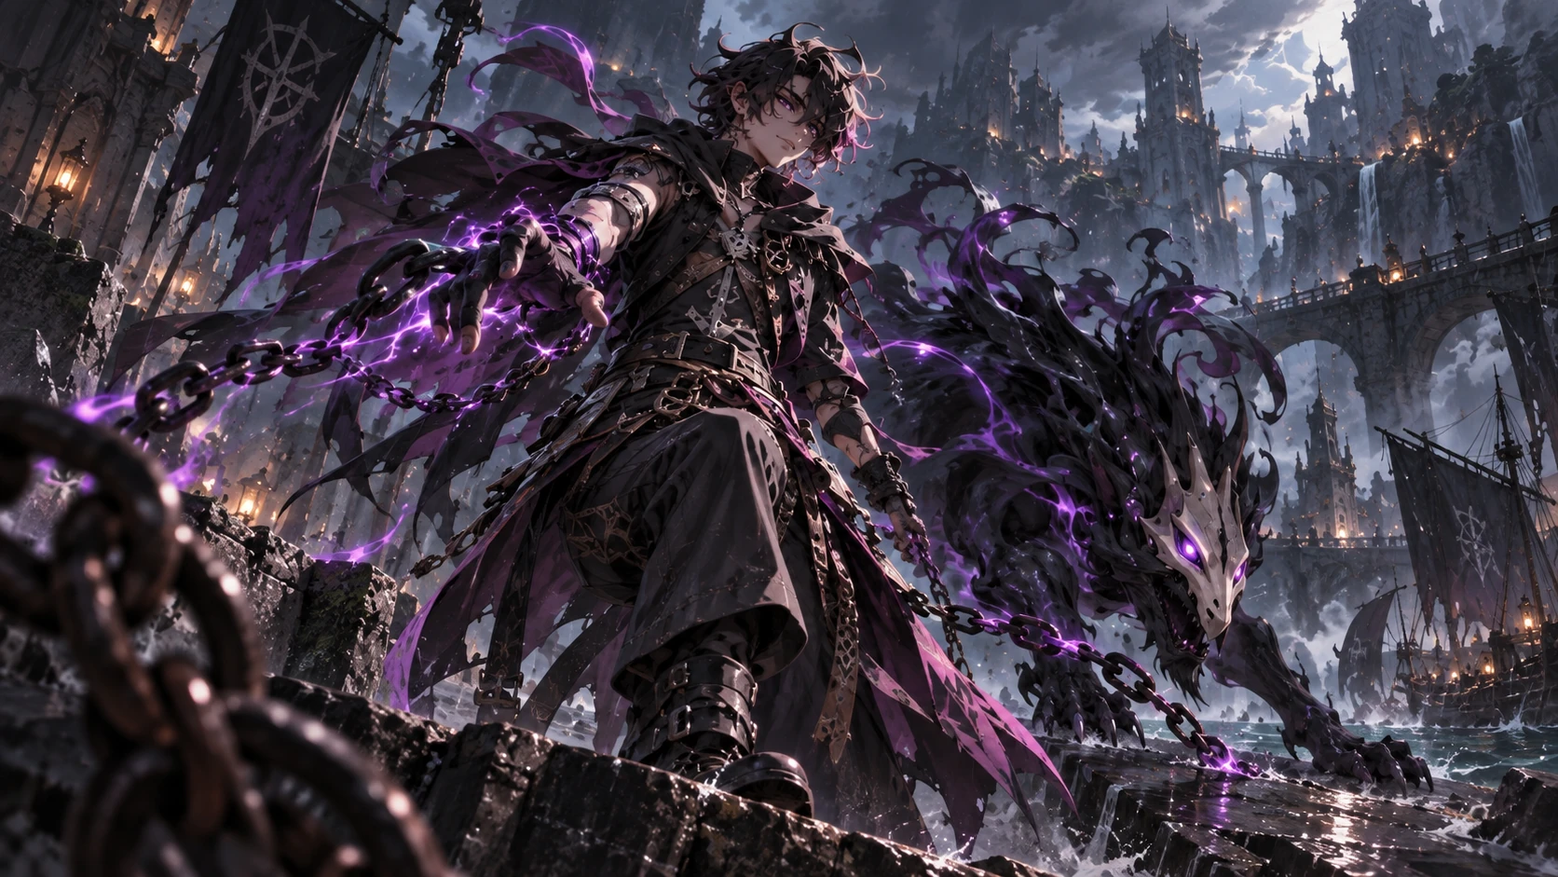
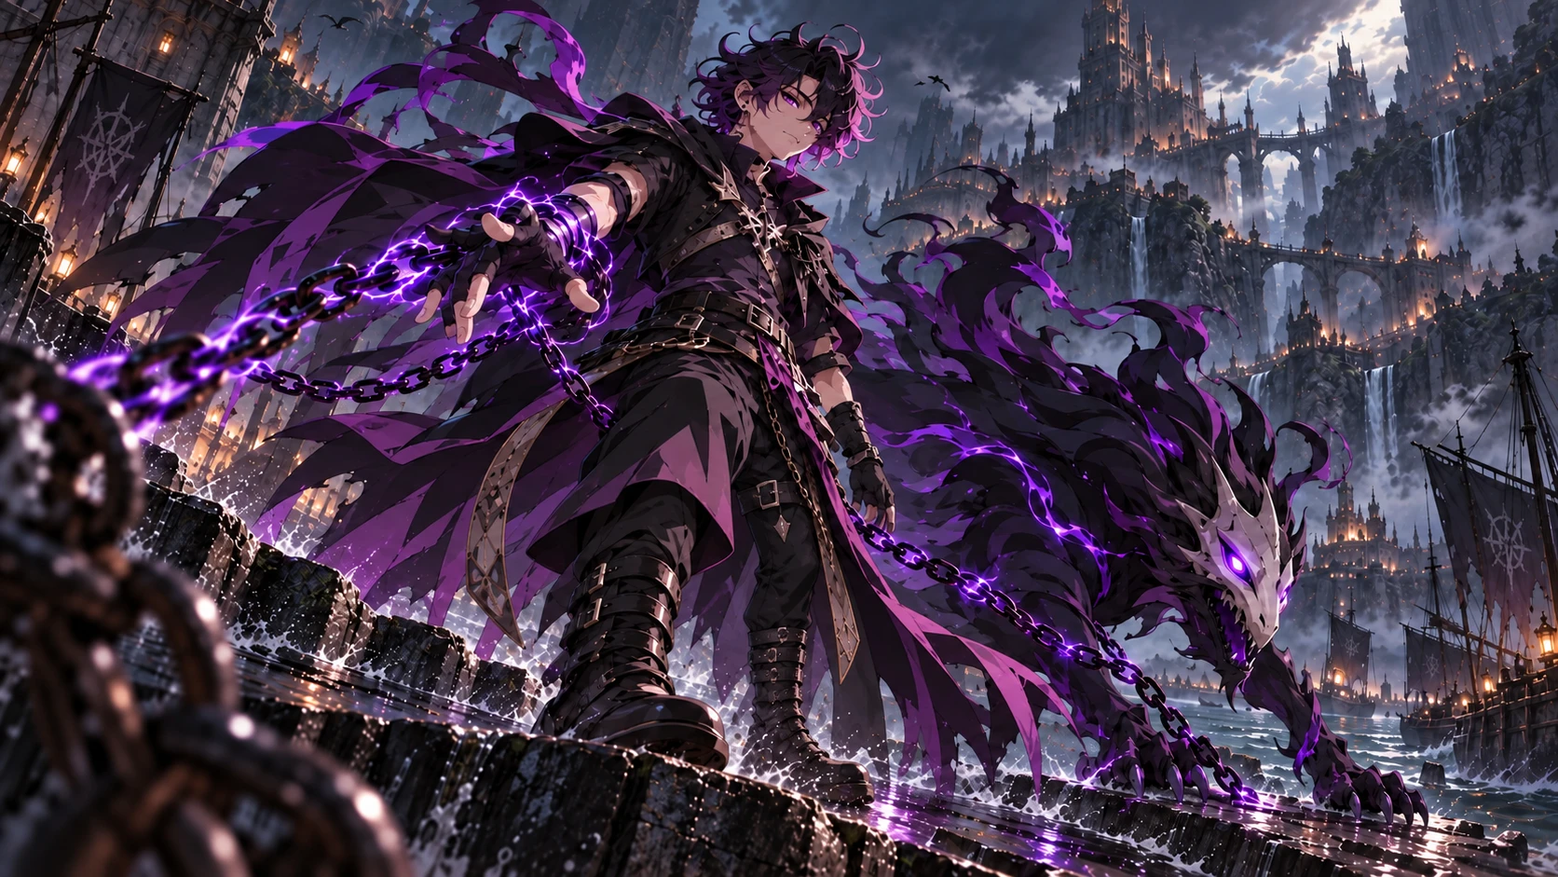
Vera, Varkesh and Marek take their new splash art (M59)
The author supplied new splash art for all three: the same designs drawn
cleaner. Varkesh's model already matches his.

- Vera: a long red cloak torn to ribbons streams from her shoulders on
  the cloak spring chains (her kit gains cloak springs). Her coat skirt
  tears deeper and flares wider so more red shows. Her side-tail is
  fuller, and its red ribbon is tied in a bow whose tails ride the hair
  chains. Her visual language follows the art.
- Marek: his coat's lining takes the art's pinker violet.
- The bible's dated note covers all five redrawn Vanguards. Vera's sheet
  is regenerated.

diff --git a/Docs/Design/Vanguards/sheets/07-vera.html b/Docs/Design/Vanguards/sheets/07-vera.html
@@ -91,7 +91,7 @@ blockquote { margin:0 0 20px; font-family:Georgia,serif; font-size:20px;
     </div>
     <div class="panel"><div class="label">Visual exploration</div>
       <div class="turn"><div class='slot turn'><span class='slot-label'>Turnaround — front</span><span class='slot-file'>front.webp</span></div><div class='slot turn'><span class='slot-label'>Turnaround — back</span><span class='slot-file'>back.webp</span></div><div class='slot turn'><span class='slot-label'>Turnaround — side</span><span class='slot-file'>side.webp</span></div><div class='slot turn'><span class='slot-label'>Scale silhouette</span><span class='slot-file'>scale.webp</span></div></div>
-      <p style="color:var(--dim);font-size:12.5px;margin:13px 0 0">A young soldier still fighting in the wreckage of her own city. White-silver hair in a short high side-tail bound with a red ribbon, red eyes, pale skin marked with dust and a scratch across one cheek. She wears a black layered Merrin coat torn to ribbons at the hem with its red lining showing through every rent, over dark segmented armour — a heavy plated pauldron on one shoulder, banded gauntlets, thigh and shin plates, armoured boots. Her weapon is an enormous two-handed <strong>Merrin siege arm</strong> carried across her body like a service piece: dark timber and riveted iron, a bladed spike running forward past the muzzle, a hot red Flux line burning along its length, and a red pennant hung from the fore-end bearing a white cross-and-sword device. The same device hangs in torn banners through the ruins behind her, so it belongs to the force she is part of; whose exactly is still to be decided. Ranked across the full width of the frame stand <strong>spectral blue-white Merrin infantry</strong> — helmeted, bayonets levelled, drawn up in firing lines that recede into the distance. They are part of her silhouette and the source of her visual mass, and she reads as the one living thing commanding them. She is solid and opaque, and her Echo nature is carried entirely by those ranks rather than by any transparency of her own. At gameplay distance the read is one dark red-and-black figure with a long horizontal weapon standing in front of a pale blue mass; the red Flux line and the pennant are what separate her from her own soldiers at a glance. She is the memory of a war&#x27;s last organised volley, <strong>not</strong> a lone ranger, hunter or duellist. Her weapon is <strong>never</strong> a gunpowder firearm and <strong>never</strong> a bow — the red Flux line along it is what marks it as Flux-driven. She is <strong>never</strong> translucent, ghostly or faded at the edges.</p>
+      <p style="color:var(--dim);font-size:12.5px;margin:13px 0 0">A young soldier still fighting in the wreckage of her own city. White-silver hair in a high side-tail bound with a red ribbon tied in a bow, red eyes, pale skin marked with dust and a scratch across one cheek. A long red cloak torn to ribbons streams from her shoulders over a black layered Merrin coat, itself torn at the hem with its red lining showing through every rent, over dark segmented armour — a heavy plated pauldron on one shoulder, banded gauntlets, thigh and shin plates, armoured boots. Her weapon is an enormous two-handed <strong>Merrin siege arm</strong> carried across her body like a service piece: dark timber and riveted iron, a bladed spike running forward past the muzzle, a hot red Flux line burning along its length, and a red pennant hung from the fore-end bearing a white cross-and-sword device. The same device hangs in torn banners through the ruins behind her, so it belongs to the force she is part of; whose exactly is still to be decided. Ranked across the full width of the frame stand <strong>spectral blue-white Merrin infantry</strong> — helmeted, bayonets levelled, drawn up in firing lines that recede into the distance. They are part of her silhouette and the source of her visual mass, and she reads as the one living thing commanding them. She is solid and opaque, and her Echo nature is carried entirely by those ranks rather than by any transparency of her own. At gameplay distance the read is one dark red-and-black figure with a long horizontal weapon standing in front of a pale blue mass; the red Flux line and the pennant are what separate her from her own soldiers at a glance. She is the memory of a war&#x27;s last organised volley, <strong>not</strong> a lone ranger, hunter or duellist. Her weapon is <strong>never</strong> a gunpowder firearm and <strong>never</strong> a bow — the red Flux line along it is what marks it as Flux-driven. She is <strong>never</strong> translucent, ghostly or faded at the edges.</p>
     </div>
 </div>
 

diff --git a/Game/Scripts/VanguardBodies/models/vera.py b/Game/Scripts/VanguardBodies/models/vera.py
@@ -1,15 +1,16 @@
 """Vera (ADR-069): a young soldier still fighting in the wreckage of her city, read by her silhouette from the game
-camera. Character Bible and her splash art: white-silver hair in a short high side-tail bound with a red ribbon; a black
-layered coat torn to ribbons at the hem, its red lining showing through every rent, over dark segmented armour (a heavy
-plated pauldron on her left shoulder, banded gauntlets, thigh and shin plates, armoured boots). Her weapon is an
+camera. Character Bible and her splash art: white-silver hair in a high side-tail bound with a red ribbon tied in a bow;
+a long red cloak torn to ribbons streaming from her shoulders, and a black layered coat torn at the hem, its red lining
+showing through every rent, over dark segmented armour (a heavy plated pauldron on her left shoulder, banded gauntlets,
+thigh and shin plates, armoured boots). Her weapon is an
 enormous two-handed siege arm carried across her body: dark timber and riveted iron, a bladed spike running forward
 past the muzzle, a hot red Flux line burning along its length, and a red pennant hung from the fore-end bearing a white
 cross-and-sword device. One dark red-and-black figure with a long horizontal weapon. Never translucent.
 
 Low poly and flat-coloured (author 2026-10-07). She rests empty-handed in the A pose; her clips carry the siege arm low
 and raise it only to fire (humanoid holds, ADR-069 §6), so it is built on her right hand's prop bone where the holds lay
-it, as at the aim, moved to her rest wrist. Her coat and its lining hang on the coat-tail chains, her side-tail on the
-hair chains (ADR-069 §7). Colours are her kit's, lifted to read under the toon light."""
+it, as at the aim, moved to her rest wrist. Her cloak hangs on the cloak chains, her coat and its lining on the coat-tail
+chains, her side-tail and its ribbon's tails on the hair chains (ADR-069 §7). Colours are her kit's, lifted to read under the toon light."""
 import numpy as np
 
 from ..sculpt import anatomy, garments, hair, sdf, sheet, tree
@@ -27,7 +28,7 @@ HAIR_REACH = 4.0
 
 PALETTE = {
     "skin": (0.9, 0.82, 0.78), "hair": (0.9, 0.9, 0.93), "ribbon": (0.7, 0.1, 0.1), "coat": (0.2, 0.19, 0.22),
-    "lining": (0.62, 0.09, 0.09), "armour": (0.26, 0.25, 0.28), "iron": (0.34, 0.32, 0.31), "leather": (0.24, 0.2, 0.18),
+    "lining": (0.62, 0.09, 0.09), "cloak": (0.68, 0.1, 0.11), "armour": (0.26, 0.25, 0.28), "iron": (0.34, 0.32, 0.31), "leather": (0.24, 0.2, 0.18),
     "timber": (0.32, 0.2, 0.12), "flux": (1.0, 0.25, 0.15), "pennant": (0.66, 0.08, 0.08), "device": (0.92, 0.9, 0.86),
 }
 
@@ -53,11 +54,20 @@ def build(S, L, dims, spec):
         locks_bones = hair.on_chains(joints, "head", head_origin + V(*SKULL_CENTRE) * u, V(*SKULL_RADII) * u, HAIR_REACH)
     locks = hair.messy(S, mats["hair"], locks_bones, SKULL_CENTRE, SKULL_RADII, (16.5, 7.0), seed=spec["seed"], unit_scale=u, count=26,
                        length=(5.0, 9.0), radius=(1.6, 2.4), wind=(0.0, -0.2, 0.0), fringe=0.7, volume=0.4, cap_bones=anatomy.rigid("head"))
-    # The high side-tail on her right, bound with a red ribbon, swinging on the hair chains (in the head's frame).
+    # The high side-tail on her right, full and long, bound with a red ribbon tied in a bow whose two tails stream back
+    # with it, swinging on the hair chains (in the head's frame).
     root = V(-3.0, -6.5, 20.0) * u
-    tail = hair.clump(S, "side_tail", root, V(-0.5, -0.6, 0.6), V(0, -1, 0.3), 13.0 * u, 2.6 * u, 0.55, 0.3, mats["hair"], locks_bones)
-    ribbon = tree.leaf(S, "ribbon", lambda P: sdf.torus(P, root, 1.8 * u, 0.7 * u, np.stack([V(1, 0, 0), V(0, 0.6, 0.8), V(0, -0.8, 0.6)], axis=1)),
-                       Box(root - 4 * u, root + 4 * u), mats["ribbon"], anatomy.rigid("head"))
+    tail = hair.clump(S, "side_tail", root, V(-0.5, -0.6, 0.6), V(0, -1, 0.3), 18.0 * u, 3.4 * u, 0.55, 0.3, mats["hair"], locks_bones)
+    bow_axes = np.stack([V(1, 0, 0), V(0, 0.6, 0.8), V(0, -0.8, 0.6)], axis=1)
+    ribbon_parts = [tree.leaf(S, "ribbon", lambda P: sdf.torus(P, root, 2.0 * u, 0.8 * u, bow_axes), Box(root - 4 * u, root + 4 * u), mats["ribbon"], anatomy.rigid("head"))]
+    for k, (ahead, aside) in enumerate(((1.0, 0.6), (-1.0, 0.6))):
+        loop = root + V(ahead * 2.4, -aside * 1.2, 1.4) * u
+        ribbon_parts.append(tree.leaf(S, "bow_%d" % k, lambda P, c=loop: sdf.ellipsoid(P, c, V(2.0, 0.8, 1.4) * u), Box(loop - 3 * u, loop + 3 * u),
+                                      mats["ribbon"], anatomy.rigid("head"), protect=0.5))
+        end = root + V(-4.0 + ahead * 1.2, -5.0, -6.0 - 2.0 * k) * u
+        ribbon_parts.append(tree.leaf(S, "ribbon_tail_%d" % k, lambda P, a=root, b=end: sdf.round_cone(P, a, b, 0.9 * u, 0.6 * u), Box.around([root, end], 2 * u),
+                                      mats["ribbon"], locks_bones, protect=0.5))
+    ribbon = Union(ribbon_parts, k=0.3 * u)
     head = anatomy.Head(S, mats["skin"], size, look={"jaw": 0.86}).build()
     figure.attach_head(Placed(Over([head, locks, Union([tail, ribbon], k=0.3 * u)]), head_origin, np.eye(3)))
     for side in ("l", "r"):
@@ -65,7 +75,10 @@ def build(S, L, dims, spec):
     body = figure.body()
     dressed = clothes(S, L, dims, mats, body, figure.limbs)
     worn = Over([dressed, siege_arm(S, L, mats, H)])
-    return worn, {"body": body, "sheets": [coat_skirt(S, L, dims, mats, "coat"), coat_skirt(S, L, dims, mats, "lining")]}
+    sheets = [coat_skirt(S, L, dims, mats, "coat"), coat_skirt(S, L, dims, mats, "lining")]
+    if "cape_01" in L:
+        sheets.insert(0, cloak(S, L, dims, dressed))
+    return worn, {"body": body, "sheets": sheets}
 
 
 def hand(S, L, H, side, mats, figure):
@@ -195,7 +208,7 @@ def coat_skirt(S, L, dims, mats, layer):
         theta = t0 + (t1 - t0) * u
         radial = np.stack([np.cos(theta), np.sin(theta), np.zeros_like(theta)], axis=1)
         top = np.stack([hip * 2.0 * np.cos(theta), hip * 2.2 * np.sin(theta), np.full_like(theta, belt_z)], axis=1)
-        p = top + radial * (H * 0.09 * v ** 1.2 + inset + (0.3 + 1.2 * v) * np.sin(theta * 8.0))[:, None]
+        p = top + radial * (H * 0.11 * v ** 1.2 + inset + (0.3 + 1.2 * v) * np.sin(theta * 8.0))[:, None]
         p[:, 2] = belt_z + (hem_z - belt_z) * v
         return sheet.clear_of(p, limbs, 1.5 + (inset if lining else 0.0) * 0.5)
 
@@ -209,6 +222,64 @@ def coat_skirt(S, L, dims, mats, layer):
             w["coat_%s_01" % side] = upper * mask
             w["coat_%s_02" % side] = lower * mask
         return {k: np.asarray(x, dtype=np.float32) for k, x in w.items()}
-    cut, point = (0.75, 0.1) if lining else (0.45, 0.25)
+    cut, point = (0.75, 0.1) if lining else (0.35, 0.3)
     return sheet.Sheet("skirt_" + layer, position, material, bones, columns, rows,
                        reach=lambda u: sheet.torn(u, strips, cut, point, 13.0 if lining else 17.0))
+
+
+def cloak(S, L, dims, worn):
+    """Her long red cloak streaming from her shoulders: its top lying on them round her back, falling behind her arms,
+    flaring wide and pleated unevenly as it falls, longest behind her, torn into long tongues. It hangs on the three
+    cloak chains (ADR-069 §7): down each side behind the arm and down the middle."""
+    H = dims["height"]
+    cz = L["spine_03"][1][2]
+    material = S.material("cloak_sheet", PALETTE["cloak"])
+    columns, rows, strips = 20, 8, 11
+    t0, t1 = np.radians(60.0), np.radians(300.0)
+    hem_u, hem_z = [0.0, 0.25, 0.5, 0.75, 1.0], [H * 0.3, H * 0.1, H * 0.05, H * 0.12, H * 0.32]
+    limbs = [(L["upperarm_" + s][0], L["upperarm_" + s][1], H * 0.042) for s in ("l", "r")] + [(L["lowerarm_" + s][0], L["lowerarm_" + s][1], H * 0.033) for s in ("l", "r")]
+    # The top edge: where a ray in toward the body at the shoulders' height first meets the clothed body, a little out.
+    samples = np.linspace(0.0, 1.0, 13)
+    theta_s = t0 + (t1 - t0) * samples
+    inward = -np.stack([np.cos(theta_s), np.sin(theta_s), np.zeros_like(theta_s)], axis=1)
+    z = cz - H * 0.012 - H * 0.008 * np.abs(np.sin(theta_s))
+    centres = np.stack([np.zeros_like(z), np.zeros_like(z), z], axis=1)
+    hits, _normals = garments.surface_points(worn, centres - inward * 45.0, inward, reach=45.0)
+    tops = hits - inward * 1.2
+    phase = np.random.default_rng(73).uniform(0, 2 * np.pi, 3)
+
+    def position(u, v):
+        theta = t0 + (t1 - t0) * u
+        side = np.abs(np.sin(theta))
+        top = np.stack([np.interp(u, samples, tops[:, k]) for k in range(3)], axis=1)
+        radial = np.stack([np.cos(theta), np.sin(theta), np.zeros_like(theta)], axis=1)
+        flare = H * (0.05 + 0.15 * side) * v ** 1.4
+        pleat = H * (0.003 + 0.02 * v) * (0.55 * np.sin(theta * 9.0 + phase[0]) + 0.3 * np.sin(theta * 14.0 + phase[1]) + 0.25 * np.sin(theta * 5.0 + phase[2]))
+        p = top + radial * (flare + pleat)[:, None]
+        p[:, 2] = top[:, 2] + (np.interp(u, hem_u, hem_z) - top[:, 2]) * v
+        return sheet.clear_of(p, limbs, 1.5)
+    chains = {prefix: [V(*L["%s_%02d" % (prefix, i)][0]) for i in (1, 2, 3)] + [V(*L[prefix + "_end"][0])] for prefix in ("cape_l", "cape", "cape_r")}
+    across = {prefix: (np.arctan2(points[0][1], points[0][0]) % (2 * np.pi) - t0) / (t1 - t0) for prefix, points in chains.items()}
+
+    def bones(P, u, v):
+        # Across the chains by where round her back it hangs; down each by height; the top held by the upper back and
+        # the shoulder on its side.
+        ul, ur = across["cape_l"], across["cape_r"]
+        share = {"cape_l": np.clip((0.5 - u) / (0.5 - ul), 0, 1), "cape_r": np.clip((u - 0.5) / (ur - 0.5), 0, 1)}
+        share["cape"] = 1.0 - share["cape_l"] - share["cape_r"]
+        w = {}
+        for prefix, points in chains.items():
+            span = points[0][2] - points[-1][2]
+            t = np.clip((points[0][2] - P[:, 2]) / span, 0, 1) * 3.0
+            for i in (1, 2, 3):
+                w["%s_%02d" % (prefix, i)] = np.clip(1 - np.abs(t - (i - 0.5)), 0, 1) * share[prefix]
+        hold = np.clip(1 - v / 0.14, 0, 1)
+        left = P[:, 1] > 0
+        for k in w:
+            w[k] = w[k] * (1 - hold)
+        w["spine_03"] = hold * 0.6
+        w["clavicle_l"] = hold * 0.4 * left
+        w["clavicle_r"] = hold * 0.4 * ~left
+        total = sum(w.values())
+        return {k: (x / np.maximum(total, 1e-6)).astype(np.float32) for k, x in w.items()}
+    return sheet.Sheet("cloak", position, material, bones, columns, rows, reach=lambda u: sheet.torn(u, strips, 0.5, 0.2, 3.0))

diff --git a/Game/Scripts/VanguardBodies/models/marek.py b/Game/Scripts/VanguardBodies/models/marek.py
@@ -38,7 +38,7 @@ CHAIN_BODY_LINK = 0.03
 # buckles, iron chain and the witchfire's violet.
 PALETTE = {
     "skin": (0.84, 0.68, 0.6), "hair": (0.2, 0.15, 0.18), "eyes": (0.42, 0.22, 0.66), "coat": (0.2, 0.16, 0.23),
-    "coat_dark": (0.16, 0.13, 0.18), "lining": (0.46, 0.2, 0.62), "trousers": (0.23, 0.2, 0.24), "leather": (0.3, 0.21, 0.19),
+    "coat_dark": (0.16, 0.13, 0.18), "lining": (0.58, 0.24, 0.7), "trousers": (0.23, 0.2, 0.24), "leather": (0.3, 0.21, 0.19),
     "boot": (0.22, 0.18, 0.19), "sole": (0.12, 0.1, 0.1), "glove": (0.18, 0.14, 0.18), "wrap": (0.3, 0.2, 0.34),
     "silver": (0.55, 0.53, 0.58), "iron": (0.3, 0.28, 0.32), "witchfire": (0.68, 0.32, 1.0),
 }

diff --git a/Docs/Design/Veyra_Initial_Roster_Character_Bible_v0.6.md b/Docs/Design/Veyra_Initial_Roster_Character_Bible_v0.6.md
@@ -17,7 +17,7 @@
 **Eudora's prostheses extended from art (2026-09-21):** Canon specified a single **mechanical left-forearm prosthesis**. Her approved art gives her **both arms from the shoulder and both legs below the knee** — four limbs rather than one forearm — so both her Nature and Visual fields are corrected to match. **This is the largest single change the art has made to a character.** It left a lore question the art could not answer — one forearm needs no explanation for an engineer, four limbs implies a specific catastrophe — and the author has ruled that the lore should follow the image. **Resolved 2026-09-21:** a freight tunnel came down on a crew she was leading. The injury now sits *before* Picket in her history, so the machine reads as her answer to it: she had spent a shift under a ceiling with nothing over her, and built mobile cover so the next crew would have something. The night-shift attack stays a separate, later event — that is when the rivet cannon was fitted. No blame is assigned to an employer; her existing hostility to negligent ones does that work already. She remains human: torso, neck and head are flesh. No kit, role, region or roster count changed.  
 **Tavi's cross pupils, twice unmet (2026-09-21):** Her paragraph specifies *"Her pupils are **pink and cross-shaped**"*. Two successive authored heroes have given her round pink pupils instead, while delivering the cross mark emphatically everywhere else. The spec is **kept rather than withdrawn**: the crosses elsewhere show the idea is landing, and a detail a generator declines twice is a production limit rather than a design decision. **If a third image declines it, withdraw it** — canon should not hold a line no image will satisfy, and the mark survives without it. No kit, lore, role, region or roster count changed.  
 **Clean redesign (2026-09-20):** Raska, Kade and Angeru now carry `**Visual language:**` paragraphs, completing appearance coverage for all 25 Vanguards. These three are **new designs built from written canon alone** — role, region, kit, lore and personality — because their earlier sheets were withdrawn for third-party content and reconstructing that look would carry the reason for the withdrawal forward. Nothing was taken from the withdrawn art, and it must not be reintroduced. No kit, lore, role, region or roster count changed.  
-**Gorraveth and Aurelisse redrawn (2026-10-07):** The author supplied new splash art for both, and art is canon, so their `**Visual language:**` paragraphs follow it. Gorraveth is the same design drawn cleaner: his mane of black spikes, cream throat and chest, dark horn, bronze-bound harness and pauldrons, dark gauntlets and greaves are now named, and his slag is **molten where it drips and black where it has cooled** rather than black throughout. Aurelisse changes more: she is no longer translucent air narrowing to a cyclone below the waist, but a figure with **periwinkle-blue skin veined with light, a calm face with glowing eyes, long legs and bare feet**, and her chimes are **bells** rather than tubes. Her nature is unchanged — wind and mineral dust that has taken a recognisable form — and so are her kit, lore, role, region and the roster count.
+**New splash art (2026-10-07):** The author supplied new splash art for Gorraveth and Aurelisse, and art is canon, so their `**Visual language:**` paragraphs follow it. Gorraveth is the same design drawn cleaner: his mane of black spikes, cream throat and chest, dark horn, bronze-bound harness and pauldrons, dark gauntlets and greaves are now named, and his slag is **molten where it drips and black where it has cooled** rather than black throughout. Aurelisse changes more: she is no longer translucent air narrowing to a cyclone below the waist, but a figure with **periwinkle-blue skin veined with light, a calm face with glowing eyes, long legs and bare feet**, and her chimes are **bells** rather than tubes. Her nature is unchanged — wind and mineral dust that has taken a recognisable form — and so are her kit, lore, role, region and the roster count. New art for Vera, Varkesh and Marek followed the same day: the same designs drawn cleaner, and only Vera's paragraph changes — her side-tail is fuller and tied in a bow, and a long red cloak torn to ribbons now streams over her black coat.
 **Angeru's skill points (2026-09-25):** one point in Q, W or E ranks both stances' abilities in that slot; Q, W and E rank to 6; Forsake the Schools costs no skill point and never ranks (§15). No lore, role or roster count changed.  
 **Current roster target:** 25 Vanguards (and growing as new designs are added)  
 **Status:** Working character canon for the planned first-playable roster. All 25 Vanguards below belong to this design target; the number designed is not the number implemented/released.
@@ -461,7 +461,7 @@ She understands death clearly and is emotionally detached rather than naive.
 
 Her weapon identity is an ancient **Merrin siege arm** — two-handed, Flux-driven, carried like a service piece — supported by spectral firing ranks.
 
-**Visual language:** A young soldier still fighting in the wreckage of her own city. White-silver hair in a short high side-tail bound with a red ribbon, red eyes, pale skin marked with dust and a scratch across one cheek. She wears a black layered Merrin coat torn to ribbons at the hem with its red lining showing through every rent, over dark segmented armour — a heavy plated pauldron on one shoulder, banded gauntlets, thigh and shin plates, armoured boots. Her weapon is an enormous two-handed **Merrin siege arm** carried across her body like a service piece: dark timber and riveted iron, a bladed spike running forward past the muzzle, a hot red Flux line burning along its length, and a red pennant hung from the fore-end bearing a white cross-and-sword device. The same device hangs in torn banners through the ruins behind her, so it belongs to the force she is part of; whose exactly is still to be decided. Ranked across the full width of the frame stand **spectral blue-white Merrin infantry** — helmeted, bayonets levelled, drawn up in firing lines that recede into the distance. They are part of her silhouette and the source of her visual mass, and she reads as the one living thing commanding them. She is solid and opaque, and her Echo nature is carried entirely by those ranks rather than by any transparency of her own. At gameplay distance the read is one dark red-and-black figure with a long horizontal weapon standing in front of a pale blue mass; the red Flux line and the pennant are what separate her from her own soldiers at a glance. She is the memory of a war's last organised volley, **not** a lone ranger, hunter or duellist. Her weapon is **never** a gunpowder firearm and **never** a bow — the red Flux line along it is what marks it as Flux-driven. She is **never** translucent, ghostly or faded at the edges.
+**Visual language:** A young soldier still fighting in the wreckage of her own city. White-silver hair in a high side-tail bound with a red ribbon tied in a bow, red eyes, pale skin marked with dust and a scratch across one cheek. A long red cloak torn to ribbons streams from her shoulders over a black layered Merrin coat, itself torn at the hem with its red lining showing through every rent, over dark segmented armour — a heavy plated pauldron on one shoulder, banded gauntlets, thigh and shin plates, armoured boots. Her weapon is an enormous two-handed **Merrin siege arm** carried across her body like a service piece: dark timber and riveted iron, a bladed spike running forward past the muzzle, a hot red Flux line burning along its length, and a red pennant hung from the fore-end bearing a white cross-and-sword device. The same device hangs in torn banners through the ruins behind her, so it belongs to the force she is part of; whose exactly is still to be decided. Ranked across the full width of the frame stand **spectral blue-white Merrin infantry** — helmeted, bayonets levelled, drawn up in firing lines that recede into the distance. They are part of her silhouette and the source of her visual mass, and she reads as the one living thing commanding them. She is solid and opaque, and her Echo nature is carried entirely by those ranks rather than by any transparency of her own. At gameplay distance the read is one dark red-and-black figure with a long horizontal weapon standing in front of a pale blue mass; the red Flux line and the pennant are what separate her from her own soldiers at a glance. She is the memory of a war's last organised volley, **not** a lone ranger, hunter or duellist. Her weapon is **never** a gunpowder firearm and **never** a bow — the red Flux line along it is what marks it as Flux-driven. She is **never** translucent, ghostly or faded at the edges.
 
 ## Passive — Cadence
 
